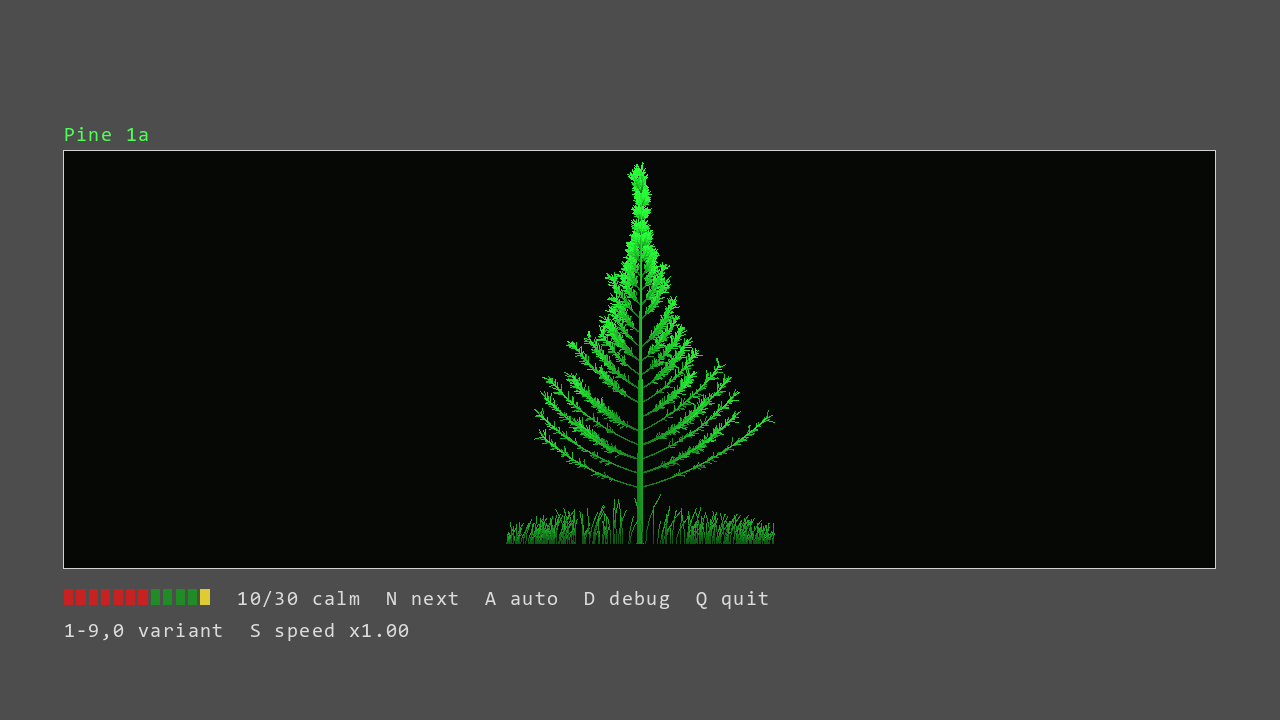
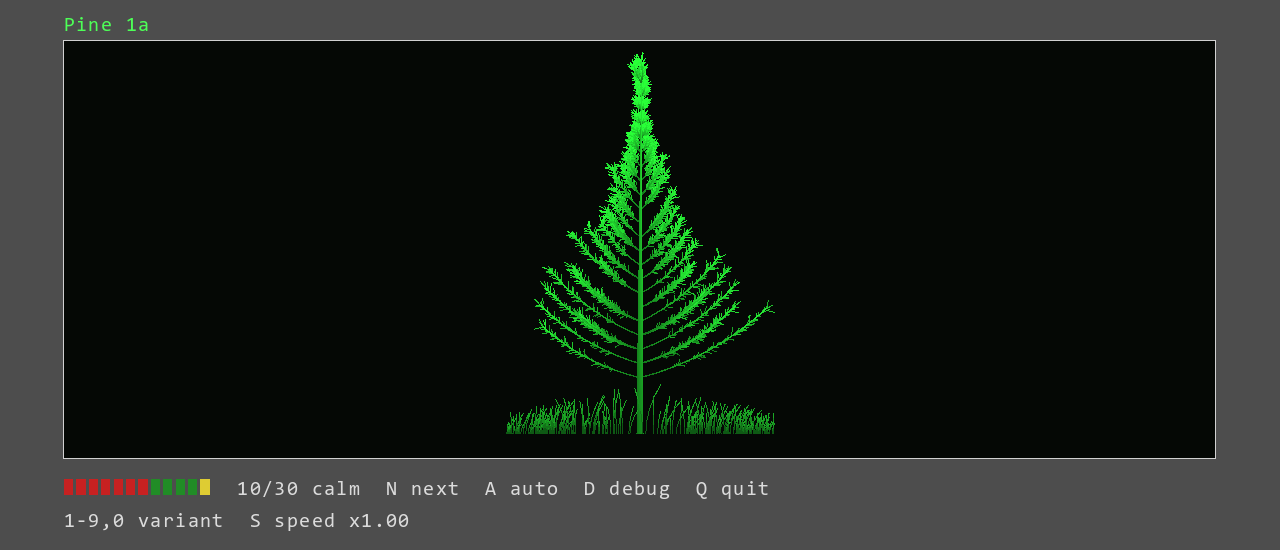
style(portfolio): preserve Tree screenshot ratio

Changed region(s): [[0.0312, 0.0309, 0.9688, 0.8964], [0.0625, 0.9273, 0.3125, 0.9582], [0.375, 0.8655, 0.4375, 0.8964]]

diff --git a/index.html b/index.html
@@ -464,9 +464,13 @@
     background: transparent;
   }
   /* Use a narrower frame for selected project screenshots so they do not
-     dominate the card on wide screens. It stays full width on mobile. */
+     dominate the card on wide screens. The natural image ratio is preserved,
+     and it stays full width on mobile. */
   #works-grid .card-thumb--compact {
     width: min(100%, 720px);
+    height: auto;
+    aspect-ratio: auto;
+    object-fit: contain;
     margin-inline: auto;
   }
   #works-grid {
@@ -1210,7 +1214,7 @@
 
 <div id="lightbox"></div>
 
-<script src="manifest.js?v=13"></script>
+<script src="manifest.js?v=14"></script>
 <script>
 (() => {
   const GALLERIES = [];

diff --git a/manifest.js b/manifest.js
@@ -46,7 +46,7 @@ Spanish (native) · English (B2)
       "title": "Tree?",
       "description": "A procedural pine tree rendered as vector assets inside a retro terminal frame, with ten switchable wind animations. Everything on screen is generated from code.",
       "url": "https://github.com/jimmyy-67/Tree",
-      "thumbnail": "img/portfolio/TerminalPine.png",
+      "thumbnail": "img/portfolio/TerminalPine.png?v=2",
       "thumbnailClass": "card-thumb--compact",
       "status": "New",
       "tags": ["Godot 4.7", "GDScript", "Procedural animation"]
